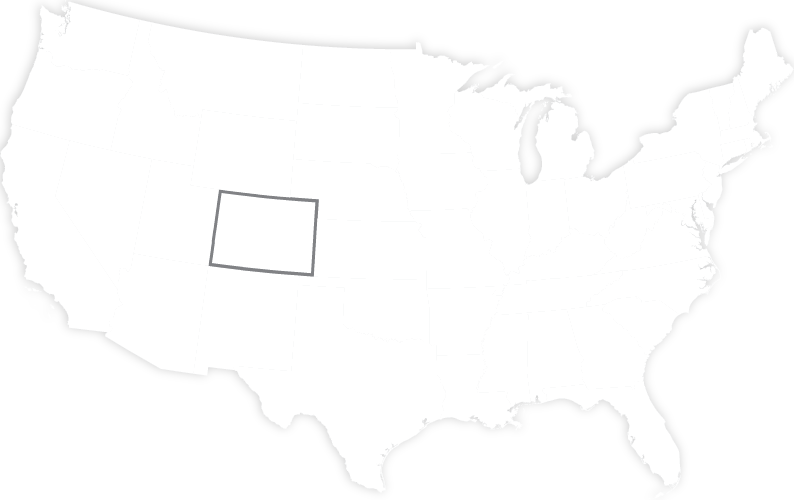
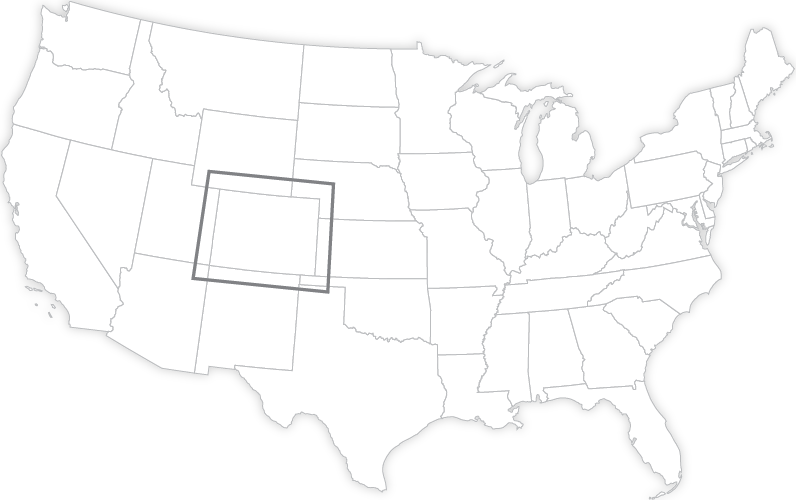
New Colorado Slider Inset Map

diff --git a/src/assets/mapboxSlider/atlantaSliderText.js b/src/assets/mapboxSlider/atlantaSliderText.js
@@ -3,17 +3,16 @@ export default {
         title: "A Shift from Hydropower to Urban Flood Management",
         introText: "",
         paragraphSections: [
-            {paragraphText: "Up to the 1960’s, the US invested in a wide geographic dispersal of gages, " + 
-                            "with a some focus on assessing rivers for their hydropower potential. "
-            },
-            {paragraphText: "Cities grew enormously in the following decades.  Populations increased, as did the imperviousness " +  
+            {aboveSliderText: "Up to the 1960’s, the US invested in a wide geographic dispersal of gages, " + 
+                            "with a some focus on assessing rivers for their hydropower potential. " +
+                            "Cities grew enormously in the following decades.  Populations increased, as did the imperviousness " +  
                             "of the land within and around city centers as construction projects paved large areas with asphalt and " + 
                             "concrete.  Urbanization meant that urban flood management became a higher priority. In the metro area of " +
                             "Atlanta Georgia, which is located within the headwaters of three major rivers, population increased five-fold " +
                             "between 1967 and 2018. Major increases in urban gages were motivated by local needs to better plan for floods and " +
                             "droughts combined with the complex litigation of water uses between Atlanta and downstream communities."
             },
-            {paragraphText: "As the creation of new dams slowed significantly after the 1960’s, some hydropower-oriented gages " +
+            {belowSliderText: "As the creation of new dams slowed significantly after the 1960’s, some hydropower-oriented gages " +
                             "were no longer essential.  Many of those gages were retired. With that shift, more new gages were " +
                             "established in urban areas.  A conservative estimate* suggests only 15% of gages would’ve been considered " + 
                             "urban in 1967, but in 2019, 23% of all active USGS gages were located within urban areas.  Today, many gages " +

diff --git a/src/components/MapboxSlider.vue b/src/components/MapboxSlider.vue
@@ -4,6 +4,12 @@
     class="section"
   >
     <h2>{{ atlantaText.title }}</h2>
+    <div
+      v-for="paragraph in atlantaText.paragraphSections"
+      :key="paragraph.aboveSliderText"
+    >
+      <p><span v-html="paragraph.aboveSliderText" /></p>
+    </div>
     <div class="maps">
       <div id="georgia-comparison-container">
         <GeorgiaInsetMap />
@@ -19,15 +25,21 @@
     </div>
     <caption class="mapcaption">
         Figure 2. An interactive slider map depicting the change in <span id="urbanGage" class="legendDot" /> urban and <span id="ruralGage" class="legendDot"/>
-        non-urban stream gages and the growth of <span id="urbanPolygon"/> extent between 1967 and 2018in north central Georgia.
+        non-urban stream gages and the growth of <span id="urbanPolygon"/> extent between 1967 and 2018 in north central Georgia.
       </caption>
     <div
       v-for="paragraph in atlantaText.paragraphSections"
-      :key="paragraph.paragraphText"
+      :key="paragraph.belowSliderText"
     >
-      <p><span v-html="paragraph.paragraphText" /></p>
+      <p><span v-html="paragraph.belowSliderText" /></p>
     </div>
     <h2 class="spacer">{{ coloradoText.title }}</h2>
+    <div
+    v-for="paragraph in coloradoText.paragraphSections"
+    :key="paragraph.aboveSliderText"
+  >
+    <p><span v-html="paragraph.aboveSliderText" /></p>
+  </div>
     <div class="maps">
       <div id="colorado-comparison-container">
         <ColoradoInset />
@@ -292,8 +304,9 @@ $polygon: '~@/assets/images/polygon.png';
   }
 }
 .mapcaption{
-  text-align: left;
+  margin: 0 auto;
   line-height: 1.4em;
+  max-width: 660px;
 }
 .legendDot{
     height: 12px;

diff --git a/src/assets/mapboxSlider/coloradoSliderText.js b/src/assets/mapboxSlider/coloradoSliderText.js
@@ -3,7 +3,7 @@ export default {
         title: "Technological Advances Making Real-Time Monitoring Possible ",
         introText: "",
         paragraphSections: [
-            {paragraphText: "Notice in the map above how evenly dispersed the 1967 gages are along waterways in the Rocky Mountains. " +  
+            {aboveSliderText: "During the late 1960s stream gage locations were evenly dispersed along waterways in the Rocky Mountains. " +  
                             "But as population centers like Denver, Colorado Springs, and Fort Collins urbanized, new gages were built " +
                             "there, as reflected by the new small clusters of gages found near those cities in 2018.  There was another " +
                             "reason for the rural-to-urban shift - technological advances in data availability."

diff --git a/src/components/coloradoInsetMap.vue b/src/components/coloradoInsetMap.vue
@@ -10,8 +10,8 @@ export default {
 </script>
 <style lang="scss" scoped>
     #coloradoInset{
-        width: 22%;
-        height: 14%;
+        width: 24%;
+        height: 16%;
         position: absolute;
         left: 10px;
         bottom: 10px;
